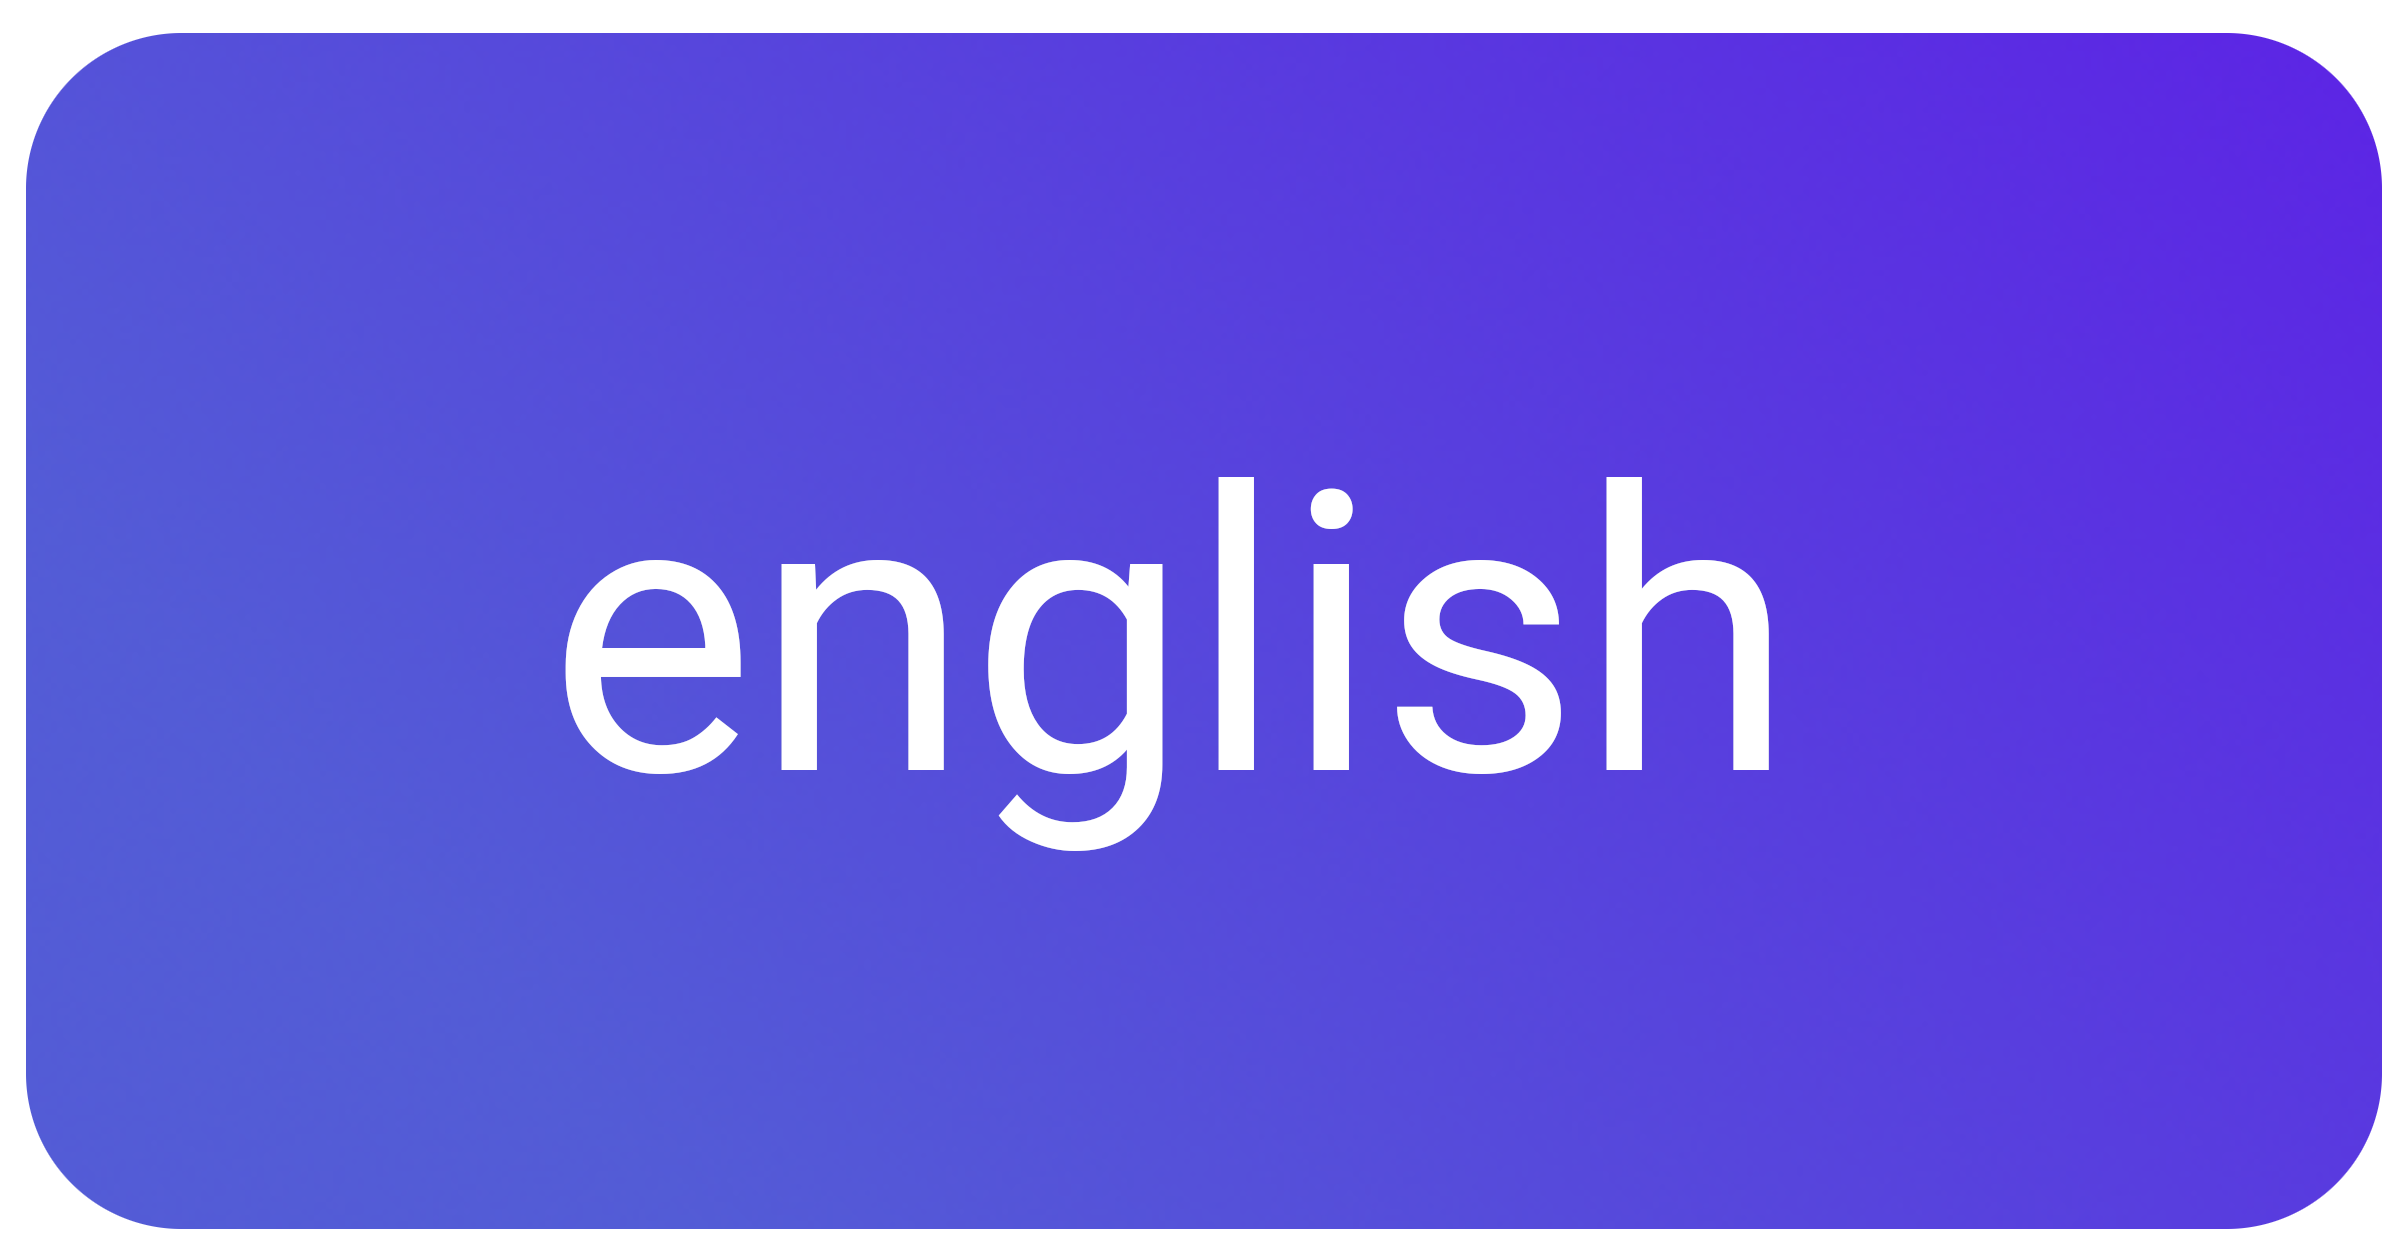
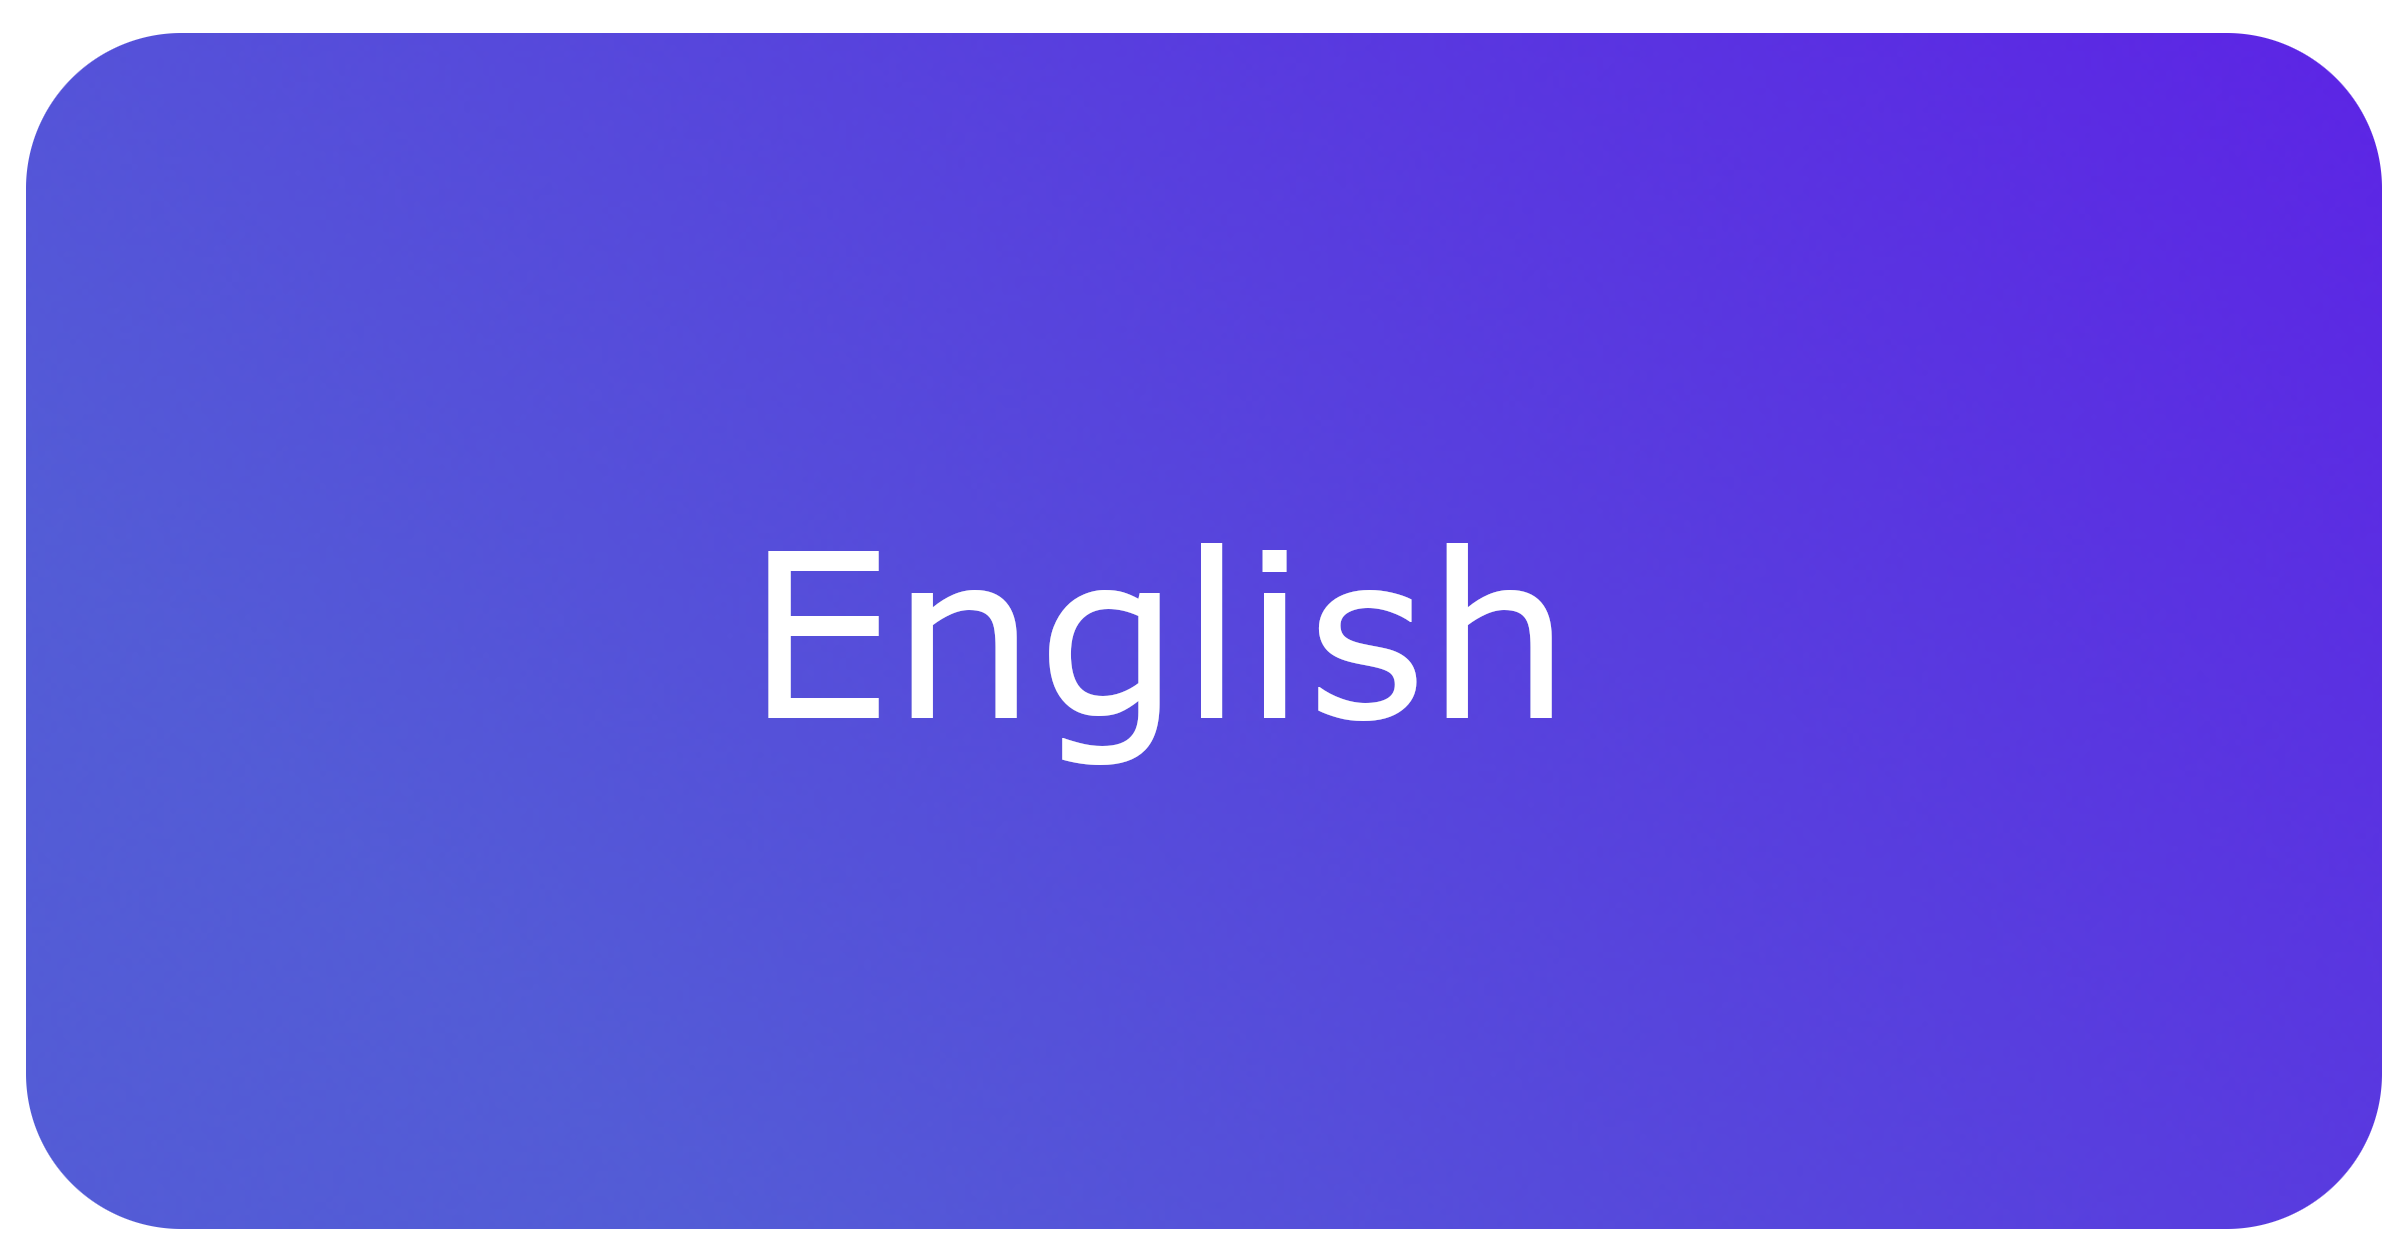
fix

Changed region(s): [[0.218, 0.3738, 0.7475, 0.6853]]

diff --git a/stuff.html b/stuff.html
@@ -51,31 +51,31 @@
         
         
         <div style="margin-left: 250px;">
-          <a href="" style="text-decoration: none;">
+          <a href="https://sites.google.com/view/frang125/privacy-politics-of-calciva" style="text-decoration: none;">
           <Button style="border: none; background: none;">
             <img src="buttomen.png" width="200px"/>
           </Button>
          </a>
           
-         <a href="" style="text-decoration: none; margin-left: 30px;">
+         <a href="https://sites.google.com/view/frang125/eng-canada" style="text-decoration: none; margin-left: 30px;">
           <Button style="border: none; background: none;">
-            <img src="buttomen.png" width="200px"/>
+            <img src="buttomenCA.png" width="200px"/>
           </Button>
          </a>
 
-         <a href="" style="text-decoration: none; margin-left: 40px;">
+         <a href="https://sites.google.com/view/frang125/french" style="text-decoration: none; margin-left: 40px;">
           <Button style="border: none; background: none; ">
-            <img src="buttomen.png" width="200px"/>
+            <img src="buttomfr.png" width="200px"/>
           </Button>
          </a>
 
-         <a href="" style="text-decoration: none; margin-left: 50px;">
+         <a href="https://sites.google.com/view/frang125/french-canada" style="text-decoration: none; margin-left: 50px;">
           <Button style="border: none; background: none;">
-            <img src="buttomen.png" width="200px"/>
+            <img src="buttomfrCA.png" width="200px"/>
           </Button>
          </a>
 
-         <a href="" style="text-decoration: none; margin-left: 60px;">
+         <a href="https://sites.google.com/view/frang125/privacy-politics-ita" style="text-decoration: none; margin-left: 60px;">
           <Button style="border: none; background: none;">
             <img src="buttomit.png" width="200px"/>
           </Button>

diff --git a/index.html b/index.html
@@ -12,7 +12,7 @@
    <link href="https://fonts.googleapis.com/css2?family=Roboto&display=swap" rel="stylesheet">
    
     <link href="css.css" rel="stylesheet" type="text/css">
-     
+     <link rel="icon" type="image/x-icon" href="face.ico">
     <title>Homepage</title>
   
      
